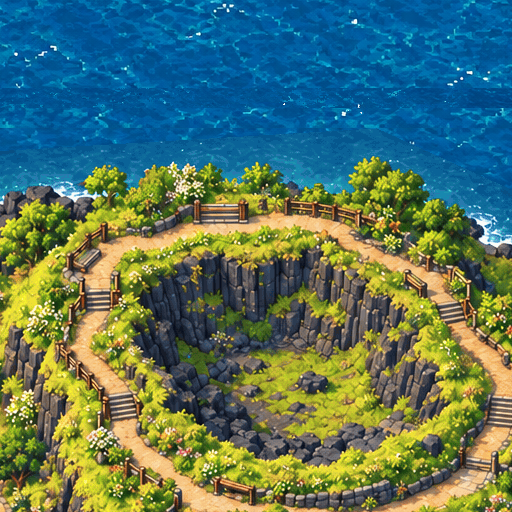
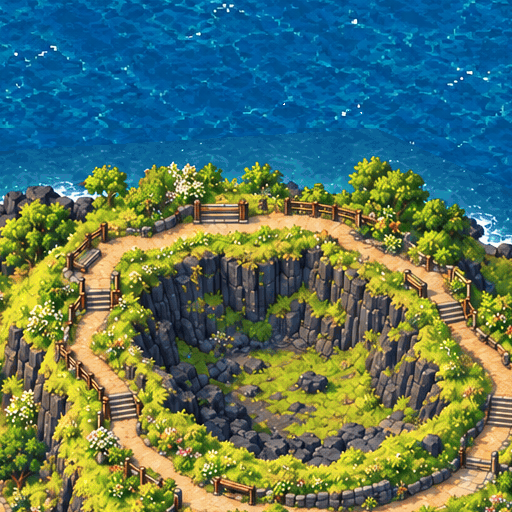
Finalize shared ocean ownership and preserve baked architecture masks

diff --git a/tools/g3dr_build.py b/tools/g3dr_build.py
@@ -45,7 +45,7 @@ shoreStructure=np.isin(sl,anchored)&structural;physicalDistance=distance_transfo
 oldFoam=(b[:,:,0]>160)&(b[:,:,1]>=b[:,:,0]*.96)&(b[:,:,2]>=b[:,:,0]*.98)
 shorePhysical=binary_dilation(shoreStructure,iterations=5)|binary_dilation(oldFoam&(physicalDistance<64),iterations=3)
 Image.fromarray(shorePhysical.astype('uint8')*255).save(S/'physical-shore-preservation.png',optimize=True)
-wm=(plannedSea|oldReflection|waterDensity)&~shorePhysical;wm[3180:3200,3180:4204]=True;wm[3200:4736,3180:4204]=waterException&(noise[3200:4736,3180:4204]<np.clip((160-edge)/80,0,1))
+wm=(plannedSea|oldReflection|waterDensity)&~shorePhysical;wm[3000:3200,3180:4352]=True;wm[3200:4736,3180:4204]=waterException&(noise[3200:4736,3180:4204]<np.clip((160-edge)/80,0,1))
 g.paste(ocean,(0,0),Image.fromarray(wm.astype('uint8')*255));Image.fromarray(wm.astype('uint8')*255).save(S/'shared-ocean-ownership.png',optimize=True)
 # Derive station facade ownership separately from top background and central baked floor.
 station=next(o for o in objects if o['id']=='registration/station');si=Image.open(R/'public'/station['image']).convert('RGBA');sa=np.array(si);retire=Image.new('L',si.size);dd=ImageDraw.Draw(retire)
@@ -165,5 +165,5 @@ over=g.copy()
 for o in sorted(objects,key=lambda o:o['sortY']):over.alpha_composite(Image.open(R/'public'/o['image']).convert('RGBA'),(o['x'],o['y']))
 over.save(D/'world-native-composite.png',optimize=True);over.thumbnail((870,973),Image.Resampling.NEAREST);over.save(O/'overview.png',optimize=True);review['overview']='assets/gate3/reconciled-world/overview.png';wr(O/'manifest.json',review)
 before=copy.deepcopy(m);before.update(id='reconciled-before',reviewEntries=review['reviewEntries'],nativeFrames=review['nativeFrames']);wr(R/'public/assets/gate3/reconciled-before/manifest.json',before)
-wr(S/'integration-provenance.json',{'baseline':reg['baselineManifest'],'sources':records,'walls':wallRecords,'changedGroundChunks':changed,'changedMaskChunks':maskchanged,'stationDerived':{'source':'public/assets/gate3/registration/station.png','retirementMask':'assets-src/gate3/reconciliation-v1/station-background-retirement.png','nativeRGBExact':True,'facadeAlphaExactOutsideExplicitBackground':True,'registrationPivotUnchanged':True,'floor':'EXACT / independent canonical owner'},'jejuException':{'mask':'assets-src/gate3/reconciliation-v1/jeju-water-boundary-exception.png','protectedLandMask':'assets-src/gate3/reconciliation-v1/jeju-protected-land-nearshore.png','protectedPixelsExact':True,'sourcePNGUnchanged':True,'authorized':'Explicit reversible water-boundary exception in latest directive','changedSourceFramePixels':int(np.any(np.array(g.crop((3180,3200,4204,4736)))!=np.array(old.crop((3180,3200,4204,4736))),axis=2).sum()),'reflectionDonors':'NONE / retired prior reflection system','nativeWaterFamily':{'source':'assets-src/gate3/reconciliation-v1/ocean-authored.png','nativeExtent':[1536,1024],'transform':'Integer native translation/phase only, no reflection or RGB filtering','trialPolicy':'Final revision selects the clean1536x1024 authored offshore family at native1:1 rather than visibly repeating128px samples. Contextual waternorth/watersouth RGB with ghost fragments remains rejected; only physical-shore foam recovered. Canonical Jeju nearshore is protected.','externalSourceEdgeCleanup':[3180,3180,1024,20]}},'collisionOwnership':'Approved northern building supports/wall supports and430px ceremonial south opening/court reclaimed. Modern colliders, native Jeju field and station8px strip unchanged.','protectedArchitecture':'All original building registrations unchanged; Gate1 gate-pier correction explicitly source-preserving','planningAmendments':[],'artAcceptance':'PENDING HUMAN / plinth/cropped-source conflicts remain'})
+wr(S/'integration-provenance.json',{'baseline':reg['baselineManifest'],'sources':records,'walls':wallRecords,'changedGroundChunks':changed,'changedMaskChunks':maskchanged,'stationDerived':{'source':'public/assets/gate3/registration/station.png','retirementMask':'assets-src/gate3/reconciliation-v1/station-background-retirement.png','nativeRGBExact':True,'facadeAlphaExactOutsideExplicitBackground':True,'registrationPivotUnchanged':True,'floor':'EXACT / independent canonical owner'},'jejuException':{'mask':'assets-src/gate3/reconciliation-v1/jeju-water-boundary-exception.png','protectedLandMask':'assets-src/gate3/reconciliation-v1/jeju-protected-land-nearshore.png','protectedPixelsExact':True,'sourcePNGUnchanged':True,'authorized':'Explicit reversible water-boundary exception in latest directive','changedSourceFramePixels':int(np.any(np.array(g.crop((3180,3200,4204,4736)))!=np.array(old.crop((3180,3200,4204,4736))),axis=2).sum()),'reflectionDonors':'NONE / retired prior reflection system','nativeWaterFamily':{'source':'assets-src/gate3/reconciliation-v1/ocean-authored.png','nativeExtent':[1536,1024],'transform':'Integer native translation/phase only, no reflection or RGB filtering','trialPolicy':'Final revision selects the clean1536x1024 authored offshore family at native1:1 rather than visibly repeating128px samples. Contextual waternorth/watersouth RGB with ghost fragments remains rejected; only physical-shore foam recovered. Canonical Jeju nearshore is protected.','externalSourceEdgeCleanup':[3180,3000,1172,200],'externalCleanupReason':'Ocean-only corridor north of canonical Jeju frame, beyond mainland3180; retires detached reflected/tree and water-band remnants, no island land/bridge source mutation'}},'collisionOwnership':'Approved northern building supports/wall supports and430px ceremonial south opening/court reclaimed. Modern colliders, native Jeju field and station8px strip unchanged.','protectedArchitecture':'All original building registrations unchanged; Gate1 gate-pier correction explicitly source-preserving','planningAmendments':[],'artAcceptance':'PENDING HUMAN / plinth/cropped-source conflicts remain'})
 print('Reconciled candidate built:',len(changed),'ground chunks;',len(maskchanged),'field chunks;',len(objects),'objects')

diff --git a/tools/g3dr_verify_published.py b/tools/g3dr_verify_published.py
@@ -1,0 +1,22 @@
+"""Verify immutable remote evidence bytes, not merely a GitHub file-view URL."""
+from pathlib import Path
+from concurrent.futures import ThreadPoolExecutor
+from urllib.request import urlopen,Request
+import json,hashlib,io
+from PIL import Image
+from zipfile import ZipFile
+R=Path(__file__).resolve().parents[1];D=R/'docs/gate3-reconciliation';tag='checkpoint/g3d-spatial-reconciliation-review-20261024';base='https://raw.githubusercontent.com/Anapaulagatti/3D-pharse5-/refs/tags/'+tag+'/'
+paths=[p for p in D.glob('*-native.png')]+[D/'palace-runtime-registration-overlay.png',D/'palace-approved-graybox-native.png',D/'VISUAL_REVIEW.md',D/'VISUAL_REVIEW.html',D/'G3D_SPATIAL_RECONCILIATION_REVIEW.zip']
+def verify(p):
+ rel=str(p.relative_to(R));url=base+rel
+ with urlopen(Request(url,headers={'User-Agent':'G3D-review-evidence-verification'}),timeout=180)as response:data=response.read();status=response.status
+ expected=hashlib.sha256(p.read_bytes()).hexdigest();actual=hashlib.sha256(data).hexdigest();assert status==200 and expected==actual,rel
+ row={'path':rel,'url':url,'HTTP':status,'bytes':len(data),'sha256':actual,'localBytesMatch':True}
+ if p.suffix=='.png':
+  im=Image.open(io.BytesIO(data));im.load();row['decodedSize']=list(im.size)
+ if p.suffix=='.zip':
+  with ZipFile(io.BytesIO(data))as z:assert z.testzip()is None;row['CRC']='PASS'
+ return row
+with ThreadPoolExecutor(max_workers=4)as pool:rows=list(pool.map(verify,paths))
+(D/'published-verification.json').write_text(json.dumps({'immutableArtifactTag':tag,'files':rows,'status':'PASS_HTTP200_SHA256_DECODE_AND_ZIP_CRC','limits':'HTTP/hash verification is accessibility/preservation, not artistic approval. No site deployed.'},indent=2)+'\n')
+print('Published evidence verified:',len(rows),'HTTP200 / SHA256; PNG decode and ZIP CRC PASS')
